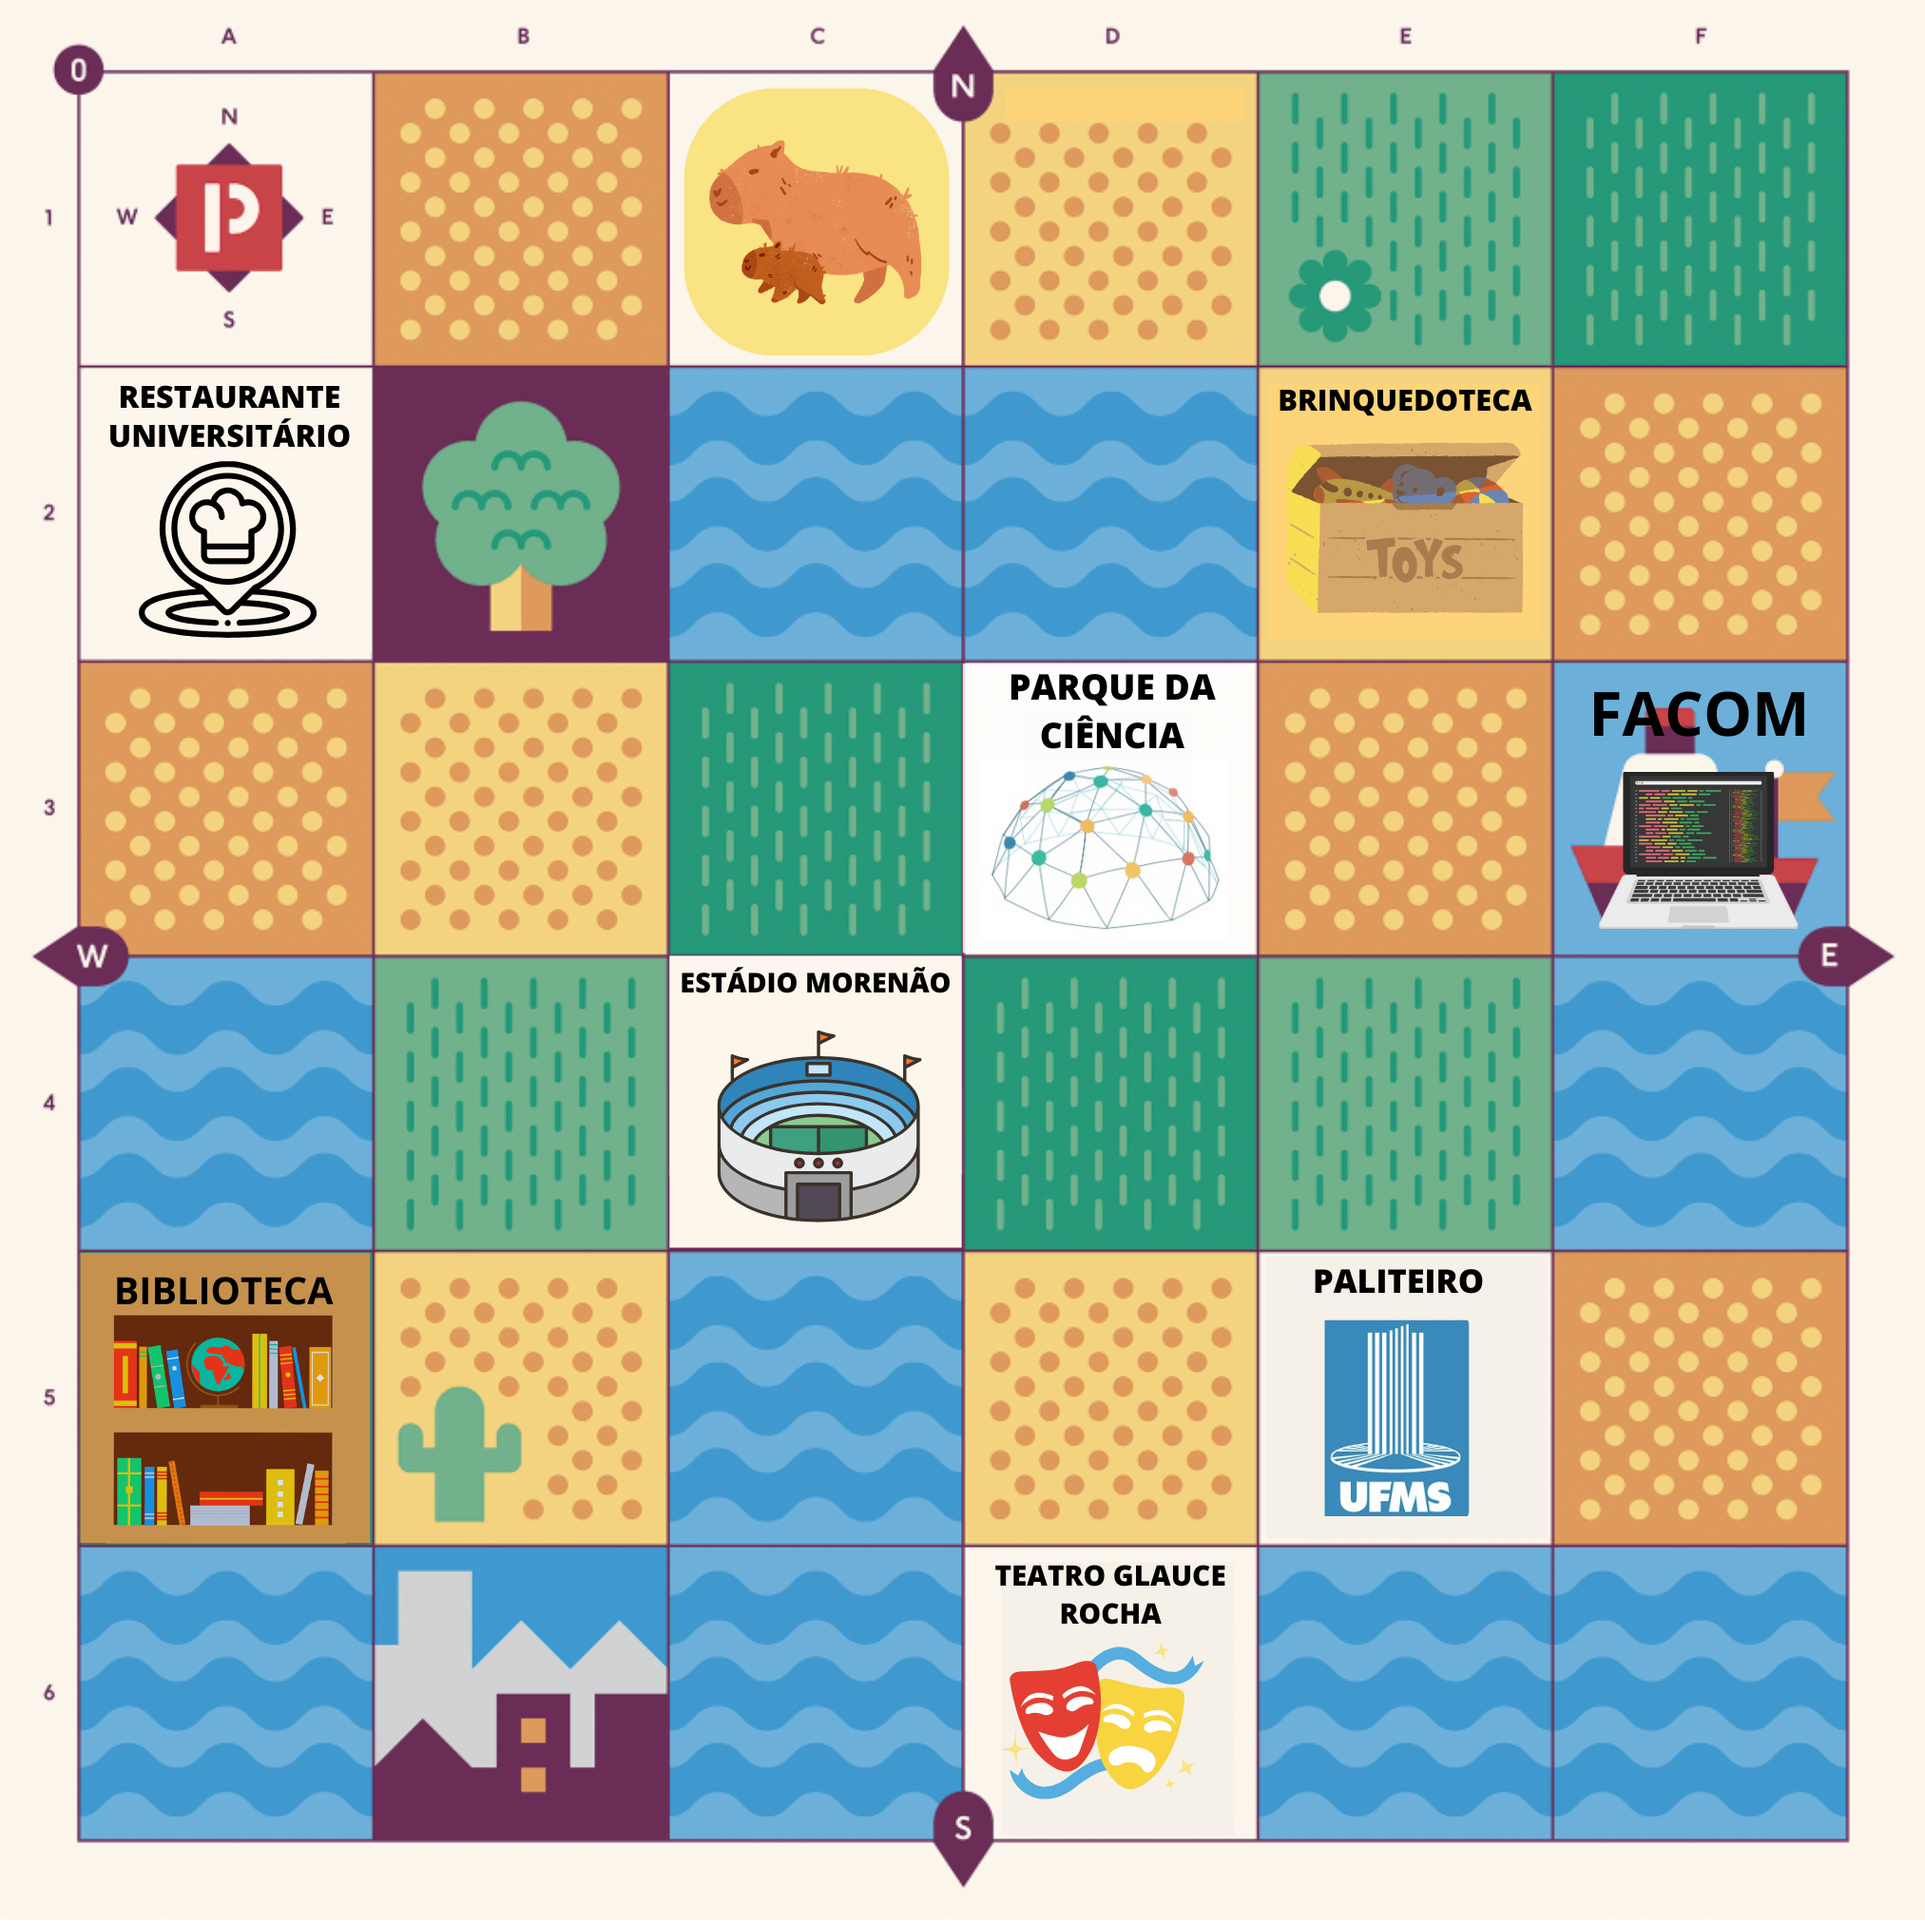
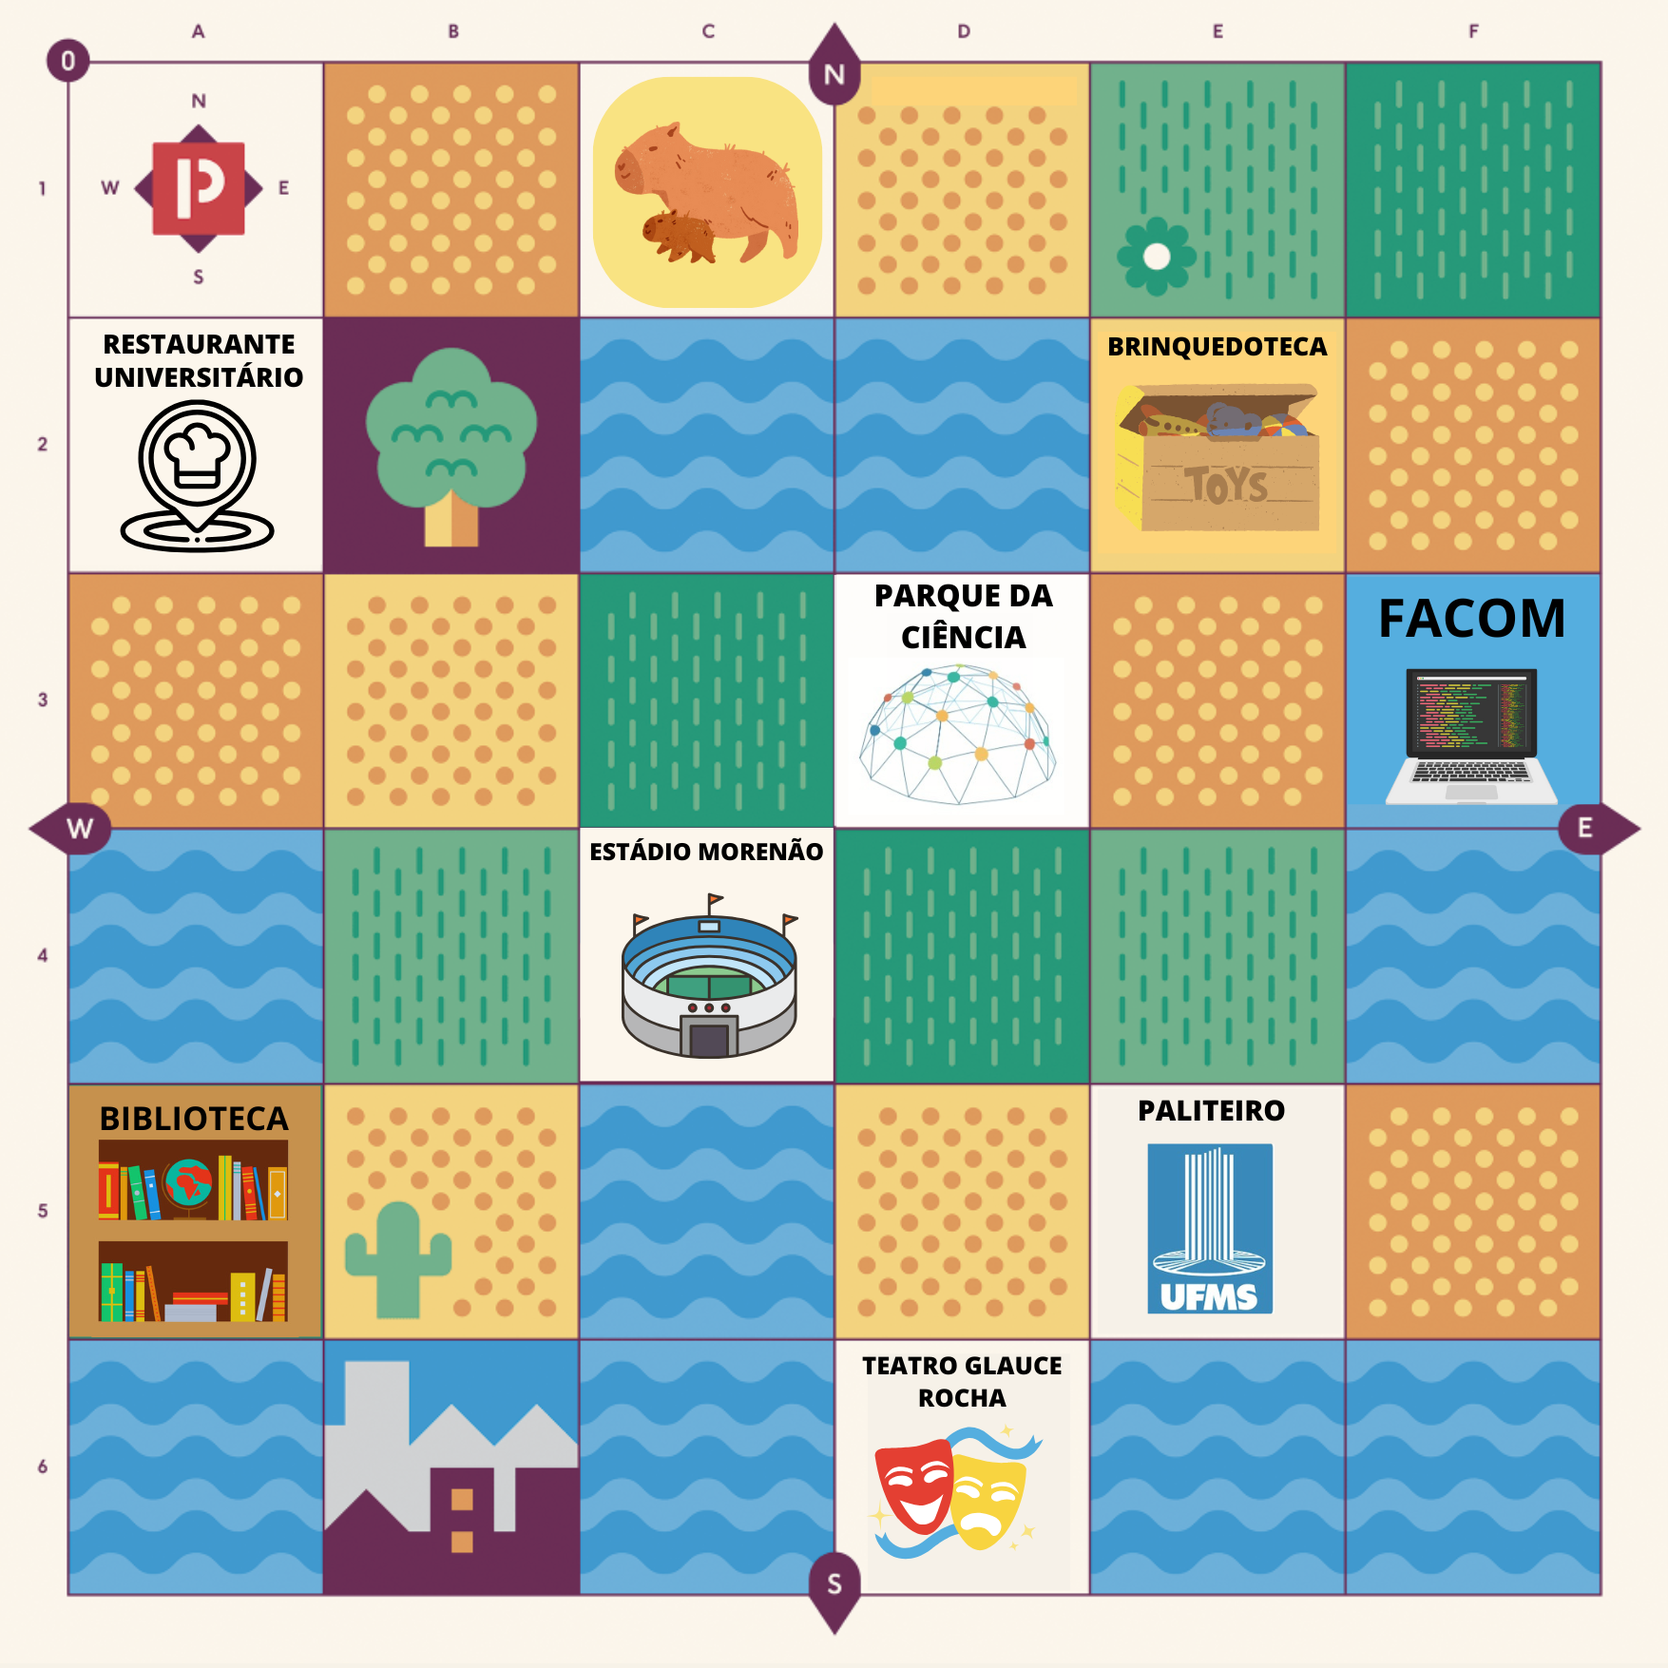
Alteração mapa

diff --git a/style.css b/style.css
@@ -1,7 +1,7 @@
 /* Estilos Gerais e Variáveis */
 
 /* Importa fonte Poppins */
-@import url('https://fonts.googleapis.com/css2?family=Poppins:wght@400;500;600&display=swap');
+@import url('https://fonts.googleapis.com/css2?family=Montserrat:wght@300;400;500;600;700&display=swap');
 
 
 :root {
@@ -20,7 +20,7 @@
 }
 
 body {
-    font-family: 'Poppins', sans-serif;
+    font-family: 'Montserrat', sans-serif;
     margin: 0;
     background-color: #f0f2f5;
     color: #333;
@@ -240,7 +240,7 @@ body {
 
 #map-grid {
     width: 100%;
-    max-width: 450px;
+    max-width: 750px;
     aspect-ratio: 1 / 1;
     background-image: var(--map-background-image);
     background-size: 100% 100%;

diff --git a/index.html b/index.html
@@ -84,7 +84,7 @@
                   
                 </div>
             </div>
-            <button id="reset-button" class="action-btn reset">Resetar</button>
+            <!-- <button id="reset-button" class="action-btn reset">Resetar</button> -->
         </div>
 
     </div>
